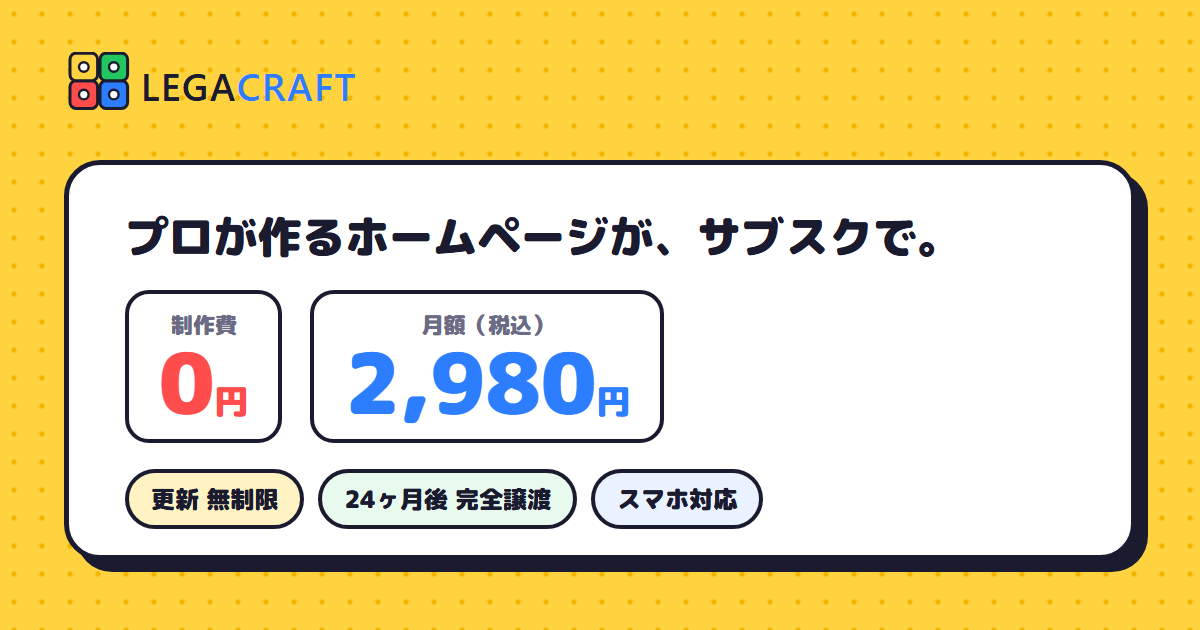
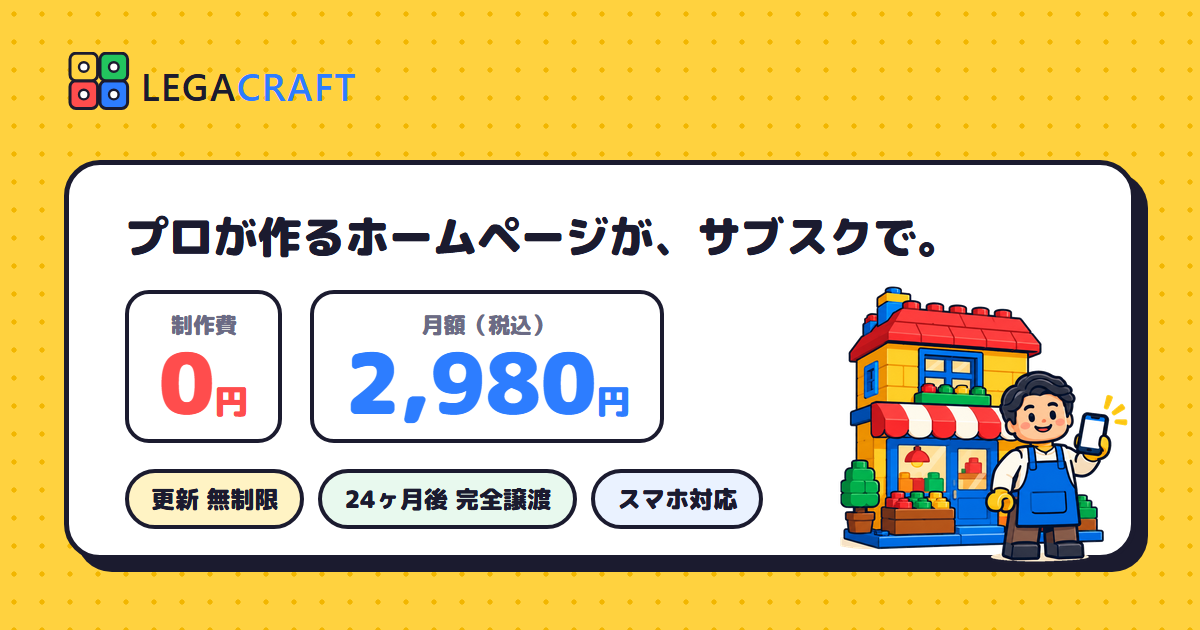
feat(site): add flow, spec, price and industry art; illustrate subpages and OGP
Top: all 5 flow steps, 4 spec icons, price heading art, 18 of 20 industry
chips, remaining problem/merit icons, faint block pattern on cream sections.
Subpages: contact, 404, aichi (hero + area), column index hero (template).
OGP gains the shop-owner figure without covering the copy.
Also includes today's scheduled column (2026-10-02) from the rebuild.

Claude-Session: https://claude.ai/code/session_01MnvsazHzAD1t6VmRBwdhFZ

Changed region(s): [[0.6783, 0.4524, 0.9558, 0.9048]]

diff --git a/column/kojin-jigyonushi-homepage-hitsuyou/index.html b/column/kojin-jigyonushi-homepage-hitsuyou/index.html
@@ -1,0 +1,107 @@
+<!DOCTYPE html>
+<html lang="ja">
+<head>
+<meta charset="utf-8">
+<meta name="viewport" content="width=device-width,initial-scale=1">
+<title>個人事業主にホームページは必要？｜いらない人・持つべき人の分かれ目 | LEGACRAFT コラム</title>
+<meta name="description" content="個人事業主にホームページは全員に必要ではありません。でも「検索される業種」「信用が必要な取引」「採用」のどれかに当てはまるなら持つべきです。いらない理由と持つべき条件、SNSとの役割の違いを整理します。">
+<link rel="canonical" href="https://legacraft.jp/column/kojin-jigyonushi-homepage-hitsuyou/">
+<meta name="theme-color" content="#FFD23F">
+<link rel="icon" href="/images/favicon.svg" type="image/svg+xml">
+<link rel="apple-touch-icon" href="/images/apple-touch-icon.png">
+<meta property="og:type" content="article"><meta property="og:locale" content="ja_JP"><meta property="og:site_name" content="LEGACRAFT">
+<meta property="og:url" content="https://legacraft.jp/column/kojin-jigyonushi-homepage-hitsuyou/"><meta property="og:title" content="個人事業主にホームページは必要？｜いらない人・持つべき人の分かれ目 | LEGACRAFT コラム"><meta property="og:description" content="個人事業主にホームページは全員に必要ではありません。でも「検索される業種」「信用が必要な取引」「採用」のどれかに当てはまるなら持つべきです。いらない理由と持つべき条件、SNSとの役割の違いを整理します。"><meta property="og:image" content="https://legacraft.jp/images/column/kojin-jigyonushi-homepage-hitsuyou.jpg">
+<meta name="twitter:card" content="summary_large_image">
+<link rel="alternate" type="application/rss+xml" title="LEGACRAFT コラム" href="https://legacraft.jp/column/feed.xml">
+<link rel="preconnect" href="https://fonts.googleapis.com"><link rel="preconnect" href="https://fonts.gstatic.com" crossorigin>
+<link rel="stylesheet" href="https://fonts.googleapis.com/css2?family=M+PLUS+Rounded+1c:wght@700;800;900&family=Zen+Maru+Gothic:wght@700;900&display=swap">
+<script src="/js/site-config.js"></script>
+<link rel="stylesheet" href="/assets/v5-pop.css">
+<link rel="stylesheet" href="/assets/column.css">
+<script type="application/ld+json">{"@context":"https://schema.org","@graph":[{"@type":"Article","headline":"個人事業主にホームページは必要？｜いらない人・持つべき人の分かれ目","description":"個人事業主にホームページは全員に必要ではありません。でも「検索される業種」「信用が必要な取引」「採用」のどれかに当てはまるなら持つべきです。いらない理由と持つべき条件、SNSとの役割の違いを整理します。","image":["https://legacraft.jp/images/column/kojin-jigyonushi-homepage-hitsuyou.jpg"],"datePublished":"2026-10-02","dateModified":"2026-10-02","mainEntityOfPage":"https://legacraft.jp/column/kojin-jigyonushi-homepage-hitsuyou/","author":{"@type":"Organization","name":"LEGACRAFT","url":"https://legacraft.jp"},"publisher":{"@type":"Organization","name":"LEGACRAFT","logo":{"@type":"ImageObject","url":"https://legacraft.jp/images/brand/logo-pop.svg"}},"keywords":"ホームページ 個人事業主, ホームページ 必要性, 個人事業主 ホームページ いらない, ホームページ SNS 違い","inLanguage":"ja"},{"@type":"BreadcrumbList","itemListElement":[{"@type":"ListItem","position":1,"name":"ホーム","item":"https://legacraft.jp/"},{"@type":"ListItem","position":2,"name":"コラム","item":"https://legacraft.jp/column/"},{"@type":"ListItem","position":3,"name":"個人事業主にホームページは必要？｜いらない人・持つべき人の分かれ目","item":"https://legacraft.jp/column/kojin-jigyonushi-homepage-hitsuyou/"}]}]}</script>
+</head>
+<body class="col-page">
+<header class="hd">
+  <div class="wrap hd-in">
+    <a class="brand" href="/" aria-label="LEGACRAFT トップへ"><img src="/images/brand/logo-pop.svg" alt="LEGACRAFT" width="560" height="120"></a>
+    <nav class="nav" aria-label="メイン">
+      <a href="/#points">特徴</a><a href="/#price">料金</a><a href="/#works">制作例</a><a href="/column/">コラム</a><a href="/#faq">よくある質問</a>
+    </nav>
+    <a class="btn line" href="https://lin.ee/XQBjU3A" target="_blank" rel="noopener"><svg class="ico" viewBox="0 0 24 24" aria-hidden="true"><path fill="currentColor" d="M12 2C6.5 2 2 5.7 2 10.2c0 4 3.6 7.4 8.4 8.1.3.1.8.2.9.5.1.3.1.7 0 1l-.1.9c0 .3-.2 1 .9.6s6-3.6 8.2-6.1c1.5-1.6 2.2-3.3 2.2-5C22.5 5.7 18 2 12 2z"/></svg>LINEで相談</a>
+  </div>
+</header>
+<main class="col-main">
+  <div class="wrap narrow">
+    <nav class="crumb" aria-label="パンくず"><a href="/">ホーム</a><span>›</span><a href="/column/">コラム</a><span>›</span><span>はじめての方へ</span></nav>
+    <article class="post">
+      <header class="post-head">
+        <span class="chip y">はじめての方へ</span>
+        <h1>個人事業主にホームページは必要？｜いらない人・持つべき人の分かれ目</h1>
+        <p class="pmeta"><time datetime="2026-10-02">2026年10月2日</time>・読了目安 約4分</p>
+        <figure class="hero-img"><img src="/images/column/kojin-jigyonushi-homepage-hitsuyou.jpg" alt="スマホで自分の屋号を検索する個人事業主" width="1600" height="900" fetchpriority="high" decoding="async"></figure>
+      </header>
+      <nav class="toc" aria-label="目次"><p class="toc-h">この記事の内容</p><ol><li><a href="#個人事業主にホームページはいらない-と言われる3つの理由">「個人事業主にホームページはいらない」と言われる3つの理由</a></li><li><a href="#それでも持つべき人の3つの条件">それでも持つべき人の3つの条件</a></li><li><a href="#SNSとホームページは-役割-がちがう">SNSとホームページは「役割」がちがう</a></li><li><a href="#まだ持たなくていい人-も正直に書きます">「まだ持たなくていい人」も正直に書きます</a></li><li><a href="#迷ったら-自分の名前で検索-してみる">迷ったら「自分の名前で検索」してみる</a></li><li><a href="#まとめ">まとめ</a></li></ol></nav>
+      <div class="post-body">
+<p>結論から言います。個人事業主にホームページは「全員に必要」ではありません。でも、「検索される業種」「信用が必要な取引」「人を雇いたい」のどれかに当てはまるなら、持ったほうが得です。この記事では、「いらない」と言われる理由と、それでも持つべき人の条件を整理します。SNSとの役割の違いも、ここでスッキリさせましょう。</p>
+<h2 id="個人事業主にホームページはいらない-と言われる3つの理由">「個人事業主にホームページはいらない」と言われる3つの理由</h2>
+<p>まず、いらない派の言い分をちゃんと聞きましょう。どれも一理あります。</p>
+<h3 id="理由1-SNSで十分だから">理由1：SNSで十分だから</h3>
+<p>InstagramやX（旧Twitter）で発信すれば、お客さんとつながれる。無料で、スマホだけで、今日から始められる。たしかにその通りです。</p>
+<h3 id="理由2-紹介だけで回っているから">理由2：紹介だけで回っているから</h3>
+<p>「お客さんは全員紹介。新規募集もしていない」。こういう人にとって、ホームページは急ぎではありません。</p>
+<h3 id="理由3-お金がかかるから">理由3：お金がかかるから</h3>
+<p>数十万円かけて作って、見られなければ損。そう考えるのも自然です。費用の幅については<a href="/column/homepage-seisaku-hiyou-souba/">制作費用の相場記事</a>にまとめています。</p>
+<blockquote><p>ポイント：「いらない」はウソではない。ただし「あなたに当てはまるか」は別の話です。</p></blockquote>
+<h2 id="それでも持つべき人の3つの条件">それでも持つべき人の3つの条件</h2>
+<h3 id="条件1-お客さんが-検索して-探す業種">条件1：お客さんが「検索して」探す業種</h3>
+<p>整体院、リフォーム、士業、教室、修理業。こういう業種は、お客さんが「地域名＋業種」で検索します。検索結果に出てこない＝存在しないのと同じ、になりがちです。</p>
+<p>SNSは「知っている人」に届く道具です。「まだ知らない人」が探すときに出てくるのは、ホームページです。地域×業種の検索記事もあわせてどうぞ。</p>
+<h3 id="条件2-信用が必要な取引をしている">条件2：信用が必要な取引をしている</h3>
+<p>法人との取引、高額な商品、長い付き合いになるサービス。相手は契約前に、必ず名前で検索します。そのとき何も出てこないと、「この人、大丈夫かな」と思われてしまいます。</p>
+<p>ホームページは、24時間働く名刺であり、履歴書です。会社案内、サービス内容、連絡先がそろっているだけで、安心感がまったく違います。</p>
+<h3 id="条件3-人を雇いたい">条件3：人を雇いたい</h3>
+<p>求人を出すと、応募する人はまず会社名で検索します。ホームページがないと、応募をためらう人がいます。採用のためのホームページについてはこちらの記事で書いています。</p>
+<h2 id="SNSとホームページは-役割-がちがう">SNSとホームページは「役割」がちがう</h2>
+<p>どちらが良い・悪いではなく、役割がちがいます。表にするとこうなります。</p>
+<div class="tbl"><table><thead><tr><th></th><th>SNS</th><th>ホームページ</th></tr></thead><tbody><tr><td>届く相手</td><td>フォロワー（知っている人）</td><td>検索した人（まだ知らない人）</td></tr><tr><td>情報の形</td><td>流れていく</td><td>ずっと残る</td></tr><tr><td>伝わるもの</td><td>人柄・日々の様子</td><td>事業の全体像・信用</td></tr><tr><td>持ち主</td><td>サービス側のもの</td><td>自分のもの（独自ドメインなら）</td></tr></tbody></table></div>
+<p>いちばん良いのは、両方を使い分けることです。SNSで日々の様子を見せて、くわしく知りたい人をホームページに案内する。この流れが、小さな事業にはいちばん向いています。</p>
+<p>うちの場合は、制作費0円・月額2,980円（税込）で、5ページ程度のホームページを作っています。SNSリンクも標準で入れるので、「SNSもやっているけど、ちゃんとした受け皿もほしい」という人によく選ばれます。<a href="/#works">制作例</a>も見てみてください。</p>
+<aside class="cta-box"><p class="cta-k">LINEで無料相談</p><h3>ホームページのこと、LINEで気軽に聞いてください</h3><p>LEGACRAFTは制作費0円・月額2,980円（税込）のサブスク型。更新は回数無制限、24ヶ月後はサイトを譲渡します。質問だけでも大歓迎です。</p><a class="btn line" href="https://lin.ee/XQBjU3A" target="_blank" rel="noopener" data-cta="column-mid"><svg class="ico" viewBox="0 0 24 24" aria-hidden="true"><path fill="currentColor" d="M12 2C6.5 2 2 5.7 2 10.2c0 4 3.6 7.4 8.4 8.1.3.1.8.2.9.5.1.3.1.7 0 1l-.1.9c0 .3-.2 1 .9.6s6-3.6 8.2-6.1c1.5-1.6 2.2-3.3 2.2-5C22.5 5.7 18 2 12 2z"/></svg>LINEで無料相談する</a><p class="cta-sub"><a href="/#price">料金の詳細を見る</a>　<a href="/#works">制作例を見る</a></p></aside>
+<h2 id="まだ持たなくていい人-も正直に書きます">「まだ持たなくていい人」も正直に書きます</h2>
+<ul><li>お客さんが全員紹介で、今後も新規をとるつもりがない</li><li>趣味に近い活動で、収入を増やす予定がない</li><li>1年以内にやめる可能性が高い</li></ul>
+<p>こういう場合は、無理に作らなくて大丈夫です。無料ツールで1ページだけ置いておく、という手もあります。無料ツールの落とし穴記事も参考にしてください。</p>
+<h2 id="迷ったら-自分の名前で検索-してみる">迷ったら「自分の名前で検索」してみる</h2>
+<p>今すぐできる判断方法があります。スマホで、自分の屋号や名前を検索してみてください。</p>
+<p>何も出てこない、または古い情報しか出てこないなら、お客さんも同じものを見ています。そこに「ちゃんとした顔」を置くかどうか。それがホームページを持つかどうかの答えです。</p>
+<p>もし「置きたい」と思ったら、まずは何が必要かを知るところから。ホームページ作成に必要なものの記事が役に立つはずです。</p>
+<h2 id="まとめ">まとめ</h2>
+<ul><li>個人事業主にホームページは「全員に必要」ではない</li><li>「検索される業種」「信用が必要」「人を雇う」なら持つべき</li><li>SNSは知っている人に、ホームページはまだ知らない人に届く</li><li>両方を使い分けるのがいちばん強い</li><li>迷ったら自分の名前で検索してみる</li></ul>
+<p>「自分の場合はどうだろう」と思ったら、LINEで気軽に相談してください。作らないほうがいい場合は、そう言います。</p>
+<aside class="cta-box"><p class="cta-k">LINEで無料相談</p><h3>読んで「うちも必要かも」と思ったら</h3><p>まずは友だち追加して「ホームページの相談」とひとこと送ってください。しつこい営業はしません。</p><a class="btn line" href="https://lin.ee/XQBjU3A" target="_blank" rel="noopener" data-cta="column-end"><svg class="ico" viewBox="0 0 24 24" aria-hidden="true"><path fill="currentColor" d="M12 2C6.5 2 2 5.7 2 10.2c0 4 3.6 7.4 8.4 8.1.3.1.8.2.9.5.1.3.1.7 0 1l-.1.9c0 .3-.2 1 .9.6s6-3.6 8.2-6.1c1.5-1.6 2.2-3.3 2.2-5C22.5 5.7 18 2 12 2z"/></svg>LINEで無料相談する</a><p class="cta-sub"><a href="/#price">料金の詳細を見る</a>　<a href="/#works">制作例を見る</a></p></aside>
+      </div>
+      <aside class="author"><img src="/images/brand/mark-pop.svg" alt="" width="64" height="64"><div><p class="a-name">LEGACRAFT（レガクラフト）</p><p>愛知県を拠点にしたWeb制作。制作費0円・月額2,980円（税込）のサブスク型で、小さな会社のホームページを作って育てています。</p></div></aside>
+      <nav class="prevnext" aria-label="前後の記事">
+        <span></span>
+        <a class="pn next" href="/column/homepage-seisaku-hiyou-souba/"><span>前の記事</span>ホームページ制作の費用相場｜0円〜100万円の差と見積もりの見方</a>
+      </nav>
+    </article>
+  </div>
+  <section class="related"><div class="wrap"><h2 class="h2">あわせて読みたい</h2><div class="pgrid"><a class="pcard" href="/column/homepage-seisaku-hiyou-souba/" data-cat="料金・費用">
+  <figure><img src="/images/column/homepage-seisaku-hiyou-souba.jpg" alt="" width="1600" height="900" loading="lazy" decoding="async"></figure>
+  <div class="pcard-b"><span class="chip r">料金・費用</span><h3>ホームページ制作の費用相場｜0円〜100万円の差と見積もりの見方</h3><p>ホームページ制作の費用は0円から100万円超まで幅があります。差がつく理由は「誰が作るか」「何が含まれているか」。費用を決める5つの要素と、見積もりで必ず見るべき3つのポイントをやさしく解説します。</p><p class="pmeta"><time datetime="2026-10-01">2026年10月1日</time>・約5分</p></div></a></div><p class="center"><a class="btn y" href="/column/">コラム一覧へ</a></p></div></section>
+</main>
+<footer class="ft">
+  <div class="wrap ft-in">
+    <div>
+      <img src="/images/brand/logo-pop.svg" alt="LEGACRAFT" width="560" height="120">
+      <p class="ft-tag">制作費0円・月額2,980円のサブスク型ホームページ制作</p>
+      <dl><dt>屋号</dt><dd>LEGACRAFT（レガクラフト）</dd><dt>拠点</dt><dd>愛知県（全国オンライン対応）</dd><dt>メール</dt><dd><a href="mailto:info@legacraft.jp">info@legacraft.jp</a></dd></dl>
+    </div>
+    <div><h4>MENU</h4><ul><li><a href="/#points">特徴</a></li><li><a href="/#price">料金</a></li><li><a href="/#works">制作例</a></li><li><a href="/#flow">ご利用の流れ</a></li><li><a href="/#faq">よくあるご質問</a></li><li><a href="/column/">コラム</a></li><li><a href="/privacy.html">プライバシーポリシー</a></li><li><a href="/terms/">利用規約</a></li><li><a href="/tokushoho/">特定商取引法に基づく表記</a></li></ul></div>
+    <p class="ft-note">掲載している制作例・デモはすべて架空の企業を想定した自主制作です。実在する企業・団体とは関係ありません。<br>© LEGACRAFT</p>
+  </div>
+</footer>
+<div class="float-line"><a class="btn line" href="https://lin.ee/XQBjU3A" target="_blank" rel="noopener"><svg class="ico" viewBox="0 0 24 24" aria-hidden="true"><path fill="currentColor" d="M12 2C6.5 2 2 5.7 2 10.2c0 4 3.6 7.4 8.4 8.1.3.1.8.2.9.5.1.3.1.7 0 1l-.1.9c0 .3-.2 1 .9.6s6-3.6 8.2-6.1c1.5-1.6 2.2-3.3 2.2-5C22.5 5.7 18 2 12 2z"/></svg>LINEで無料相談</a></div>
+<div class="sp-bar"><a class="btn line" href="https://lin.ee/XQBjU3A" target="_blank" rel="noopener"><svg class="ico" viewBox="0 0 24 24" aria-hidden="true"><path fill="currentColor" d="M12 2C6.5 2 2 5.7 2 10.2c0 4 3.6 7.4 8.4 8.1.3.1.8.2.9.5.1.3.1.7 0 1l-.1.9c0 .3-.2 1 .9.6s6-3.6 8.2-6.1c1.5-1.6 2.2-3.3 2.2-5C22.5 5.7 18 2 12 2z"/></svg>LINEで無料相談（制作費0円）</a></div>
+</body>
+</html>

diff --git a/index.html b/index.html
@@ -144,7 +144,7 @@
     </div>
     <ul class="woes rv">
       <li class="woe">ホームページを作りたいけど、見積もりが<b>数十万円</b>でビックリした<img class="woe-ill" src="images/site/woe-1-mitsumori.webp" alt="" width="256" height="256" loading="lazy" decoding="async"></li>
-      <li class="woe">月額制のサービスを見ても、<b>結局いくらかかるのか</b>よく分からない</li>
+      <li class="woe">月額制のサービスを見ても、<b>結局いくらかかるのか</b>よく分からない<img class="woe-ill" src="images/site/woe-2-hatena.webp" alt="" width="256" height="186" loading="lazy" decoding="async"></li>
       <li class="woe">自分で作ろうとしたけど、<b>途中で止まった</b>まま<img class="woe-ill" src="images/site/woe-3-tochu.webp" alt="" width="256" height="163" loading="lazy" decoding="async"></li>
       <li class="woe">昔作ったサイトが古くて、<b>スマホで見ると崩れている</b><img class="woe-ill" src="images/site/woe-4-kuzure.webp" alt="" width="171" height="256" loading="lazy" decoding="async"></li>
       <li class="woe">作ったあと、<b>直してくれる人がいない</b>のが不安<img class="woe-ill" src="images/site/woe-5-fuan.webp" alt="" width="256" height="216" loading="lazy" decoding="async"></li>
@@ -198,7 +198,7 @@
     <div class="merits rv">
       <article class="merit"><div class="ic" aria-hidden="true"><img class="ic-img" src="images/site/merit-1-shinyo.webp" alt="" width="256" height="242" loading="lazy" decoding="async"></div><h3>信用度がアップする</h3><p>名刺交換のあと、取引前、融資の審査前。相手はまず会社名で検索します。ホームページがあるだけで「ちゃんとした会社」として見てもらえます。</p></article>
       <article class="merit"><div class="ic" aria-hidden="true"><img class="ic-img" src="images/site/merit-2-mitsukaru.webp" alt="" width="256" height="217" loading="lazy" decoding="async"></div><h3>新しいお客様に見つけてもらえる</h3><p>24時間休まず働く営業マンです。「地域名＋業種」で探している人に、あなたの会社を知ってもらうきっかけになります。</p></article>
-      <article class="merit"><div class="ic" aria-hidden="true">🤝</div><h3>求人・採用に使える</h3><p>応募前にホームページを見る人がほとんど。会社の雰囲気や仕事内容が分かるページがあると、応募のハードルが下がります。</p></article>
+      <article class="merit"><div class="ic" aria-hidden="true"><img class="ic-img" src="images/site/merit-3-saiyo.webp" alt="" width="220" height="256" loading="lazy" decoding="async"></div><h3>求人・採用に使える</h3><p>応募前にホームページを見る人がほとんど。会社の雰囲気や仕事内容が分かるページがあると、応募のハードルが下がります。</p></article>
     </div>
   </div>
 </section>
@@ -207,6 +207,7 @@
 <section class="sec cream" id="price">
   <div class="wrap narrow">
     <div class="sec-head rv">
+      <img class="sec-ill" src="images/site/price-plan.webp" alt="" width="428" height="480" loading="lazy" decoding="async">
       <p class="kicker r">PRICE</p>
       <h2 class="h2">料金は<span class="mk">これだけ</span>。</h2>
       <p class="lead">プランは1つ。オプション地獄も、あとから増える請求もありません。</p>
@@ -343,10 +344,10 @@
       <p class="lead">「うちの業種でもできる？」はだいたい大丈夫。迷ったらLINEで聞いてください。</p>
     </div>
     <ul class="chips rv">
-      <li><img class="chip-ic" src="images/site/ind-01-kenchiku.webp" alt="" width="160" height="137" loading="lazy" decoding="async">建築・リフォーム</li><li>電気・水道工事</li><li>塗装・外構</li><li>美容室・サロン</li><li>整体・治療院</li>
-      <li>クリニック・歯科</li><li>介護・福祉</li><li>飲食店・カフェ</li><li>ハウスクリーニング</li><li>不用品回収</li>
+      <li><img class="chip-ic" src="images/site/ind-01-kenchiku.webp" alt="" width="160" height="137" loading="lazy" decoding="async">建築・リフォーム</li><li><img class="chip-ic" src="images/site/ind-02-denki-suido.webp" alt="" width="160" height="156" loading="lazy" decoding="async">電気・水道工事</li><li><img class="chip-ic" src="images/site/ind-03-tosou.webp" alt="" width="160" height="158" loading="lazy" decoding="async">塗装・外構</li><li><img class="chip-ic" src="images/site/ind-04-biyo.webp" alt="" width="160" height="152" loading="lazy" decoding="async">美容室・サロン</li><li><img class="chip-ic" src="images/site/ind-05-seitai.webp" alt="" width="160" height="125" loading="lazy" decoding="async">整体・治療院</li>
+      <li><img class="chip-ic" src="images/site/ind-06-clinic.webp" alt="" width="160" height="159" loading="lazy" decoding="async">クリニック・歯科</li><li><img class="chip-ic" src="images/site/ind-07-kaigo.webp" alt="" width="160" height="143" loading="lazy" decoding="async">介護・福祉</li><li><img class="chip-ic" src="images/site/ind-08-inshoku.webp" alt="" width="160" height="151" loading="lazy" decoding="async">飲食店・カフェ</li><li><img class="chip-ic" src="images/site/ind-09-cleaning.webp" alt="" width="160" height="154" loading="lazy" decoding="async">ハウスクリーニング</li><li>不用品回収</li>
       <li><img class="chip-ic" src="images/site/ind-11-shigyo.webp" alt="" width="160" height="150" loading="lazy" decoding="async">士業・コンサル</li><li><img class="chip-ic" src="images/site/ind-12-juku.webp" alt="" width="160" height="123" loading="lazy" decoding="async">学習塾・教室</li><li><img class="chip-ic" src="images/site/ind-13-seizo.webp" alt="" width="160" height="154" loading="lazy" decoding="async">製造業</li><li><img class="chip-ic" src="images/site/ind-14-butsuryu.webp" alt="" width="160" height="121" loading="lazy" decoding="async">物流・運送</li><li><img class="chip-ic" src="images/site/ind-15-fudosan.webp" alt="" width="160" height="143" loading="lazy" decoding="async">不動産</li>
-      <li><img class="chip-ic" src="images/site/ind-16-kouri.webp" alt="" width="160" height="138" loading="lazy" decoding="async">小売店</li><li><img class="chip-ic" src="images/site/ind-17-freelance.webp" alt="" width="160" height="119" loading="lazy" decoding="async">個人事業主・フリーランス</li><li><img class="chip-ic" src="images/site/ind-18-npo.webp" alt="" width="160" height="153" loading="lazy" decoding="async">NPO・団体</li><li>採用ページ</li><li>その他なんでも</li>
+      <li><img class="chip-ic" src="images/site/ind-16-kouri.webp" alt="" width="160" height="138" loading="lazy" decoding="async">小売店</li><li><img class="chip-ic" src="images/site/ind-17-freelance.webp" alt="" width="160" height="119" loading="lazy" decoding="async">個人事業主・フリーランス</li><li><img class="chip-ic" src="images/site/ind-18-npo.webp" alt="" width="160" height="153" loading="lazy" decoding="async">NPO・団体</li><li><img class="chip-ic" src="images/site/ind-19-saiyo.webp" alt="" width="160" height="129" loading="lazy" decoding="async">採用ページ</li><li>その他なんでも</li>
     </ul>
   </div>
 </section>
@@ -360,11 +361,11 @@
       <p class="lead">やることは「LINEで答える」だけ。むずかしい作業はぜんぶこちらでやります。</p>
     </div>
     <div class="steps rv">
-      <div class="st"><span class="free-tag">無料</span><span class="sn">1</span><h3>LINEで友だち追加</h3><p>ボタンを押して友だち追加。「ホームページの相談」とひとこと送ってください。</p></div>
-      <div class="st"><span class="free-tag">無料</span><span class="sn">2</span><h3>LINEでヒアリング</h3><p>業種・やりたいこと・参考サイトなどを、チャットで気軽に教えてください。</p></div>
-      <div class="st"><span class="sn">3</span><h3>お申し込み・制作</h3><p>内容と料金に納得いただいたら制作開始。写真や文章はLINEで送るだけ。</p></div>
-      <div class="st"><span class="sn">4</span><h3>確認・調整</h3><p>できあがりを見ていただき、気になるところを直します。</p></div>
-      <div class="st"><span class="sn">5</span><h3>公開・ずっとサポート</h3><p>公開後も更新は無制限。24ヶ月後はサイトをまるごと譲渡します。</p></div>
+      <div class="st"><span class="free-tag">無料</span><span class="sn">1</span><img class="st-ill" src="images/site/flow-1-tomodachi.webp" alt="" width="360" height="349" loading="lazy" decoding="async"><h3>LINEで友だち追加</h3><p>ボタンを押して友だち追加。「ホームページの相談」とひとこと送ってください。</p></div>
+      <div class="st"><span class="free-tag">無料</span><span class="sn">2</span><img class="st-ill" src="images/site/flow-2-hearing.webp" alt="" width="360" height="325" loading="lazy" decoding="async"><h3>LINEでヒアリング</h3><p>業種・やりたいこと・参考サイトなどを、チャットで気軽に教えてください。</p></div>
+      <div class="st"><span class="sn">3</span><img class="st-ill" src="images/site/flow-3-seisaku.webp" alt="" width="360" height="335" loading="lazy" decoding="async"><h3>お申し込み・制作</h3><p>内容と料金に納得いただいたら制作開始。写真や文章はLINEで送るだけ。</p></div>
+      <div class="st"><span class="sn">4</span><img class="st-ill" src="images/site/flow-4-kakunin.webp" alt="" width="360" height="354" loading="lazy" decoding="async"><h3>確認・調整</h3><p>できあがりを見ていただき、気になるところを直します。</p></div>
+      <div class="st"><span class="sn">5</span><img class="st-ill" src="images/site/flow-5-kokai.webp" alt="" width="357" height="360" loading="lazy" decoding="async"><h3>公開・ずっとサポート</h3><p>公開後も更新は無制限。24ヶ月後はサイトをまるごと譲渡します。</p></div>
     </div>
     <div class="cta-block rv">
       <a class="btn line lg" href="contact.html" data-line><svg class="ico" viewBox="0 0 24 24" aria-hidden="true"><path fill="currentColor" d="M12 2C6.5 2 2 5.7 2 10.2c0 4 3.6 7.4 8.4 8.1.3.1.8.2.9.5.1.3.1.7 0 1l-.1.9c0 .3-.2 1 .9.6s6-3.6 8.2-6.1c1.5-1.6 2.2-3.3 2.2-5C22.5 5.7 18 2 12 2z"/></svg>まずはSTEP1、LINEで友だち追加</a>
@@ -380,10 +381,10 @@
       <h2 class="h2">中身も<span class="mk">ちゃんとしてます</span></h2>
     </div>
     <div class="specs rv">
-      <article class="sp"><div class="ic" aria-hidden="true">🧱</div><h3>WordPressで構築</h3><p>国内のホームページで広く使われている仕組み。ご自身でも更新でき、将来の引き継ぎもスムーズです。</p></article>
-      <article class="sp"><div class="ic" aria-hidden="true">📱</div><h3>スマホ・タブレット対応</h3><p>PC・スマホ・タブレット、どの画面でもきれいに表示されるレスポンシブデザインです。</p></article>
-      <article class="sp"><div class="ic" aria-hidden="true">🔒</div><h3>独自ドメイン・常時SSL</h3><p>あなたの会社名のURL（例：example.co.jp）で公開。https対応で安心です。</p></article>
-      <article class="sp"><div class="ic" aria-hidden="true">💬</div><h3>LINEで更新・サポート</h3><p>更新依頼も相談もLINEでOK。回数の制限はありません。</p></article>
+      <article class="sp"><div class="ic" aria-hidden="true"><img class="ic-img" src="images/site/spec-1-wordpress.webp" alt="" width="244" height="256" loading="lazy" decoding="async"></div><h3>WordPressで構築</h3><p>国内のホームページで広く使われている仕組み。ご自身でも更新でき、将来の引き継ぎもスムーズです。</p></article>
+      <article class="sp"><div class="ic" aria-hidden="true"><img class="ic-img" src="images/site/spec-2-responsive.webp" alt="" width="256" height="125" loading="lazy" decoding="async"></div><h3>スマホ・タブレット対応</h3><p>PC・スマホ・タブレット、どの画面でもきれいに表示されるレスポンシブデザインです。</p></article>
+      <article class="sp"><div class="ic" aria-hidden="true"><img class="ic-img" src="images/site/spec-3-ssl.webp" alt="" width="224" height="256" loading="lazy" decoding="async"></div><h3>独自ドメイン・常時SSL</h3><p>あなたの会社名のURL（例：example.co.jp）で公開。https対応で安心です。</p></article>
+      <article class="sp"><div class="ic" aria-hidden="true"><img class="ic-img" src="images/site/spec-4-line.webp" alt="" width="256" height="231" loading="lazy" decoding="async"></div><h3>LINEで更新・サポート</h3><p>更新依頼も相談もLINEでOK。回数の制限はありません。</p></article>
     </div>
   </div>
 </section>

diff --git a/column/index.html b/column/index.html
@@ -35,10 +35,14 @@
     <p class="kicker y">COLUMN</p>
     <h1 class="h2">ホームページの「わからない」を、<span class="mk">ぜんぶ解決するコラム</span></h1>
     <p class="lead">費用のこと、作り方のこと、作ったあとのこと。小さな会社・個人事業主の方に向けて、むずかしい言葉を使わずに書いています。</p>
+    <figure style="margin:22px auto 0;max-width:640px"><img src="/images/site/column-top.webp" alt="本からブロックが飛び出す本棚の前で、楽しそうに本を読む二人のイラスト" width="1200" height="675" decoding="async" style="width:100%;height:auto;display:block;border:3px solid #1B1B2F;border-radius:18px"></figure>
   </div></section>
   <div class="wrap">
-    <div class="cats" role="tablist" aria-label="カテゴリ"><button class="chip on" data-filter="all">すべて（1）</button><button class="chip r" data-filter="料金・費用">料金・費用（1）</button></div>
-    <div class="pgrid" id="plist"><a class="pcard" href="/column/homepage-seisaku-hiyou-souba/" data-cat="料金・費用">
+    <div class="cats" role="tablist" aria-label="カテゴリ"><button class="chip on" data-filter="all">すべて（2）</button><button class="chip y" data-filter="はじめての方へ">はじめての方へ（1）</button><button class="chip r" data-filter="料金・費用">料金・費用（1）</button></div>
+    <div class="pgrid" id="plist"><a class="pcard" href="/column/kojin-jigyonushi-homepage-hitsuyou/" data-cat="はじめての方へ">
+  <figure><img src="/images/column/kojin-jigyonushi-homepage-hitsuyou.jpg" alt="" width="1600" height="900" loading="lazy" decoding="async"></figure>
+  <div class="pcard-b"><span class="chip y">はじめての方へ</span><h3>個人事業主にホームページは必要？｜いらない人・持つべき人の分かれ目</h3><p>個人事業主にホームページは全員に必要ではありません。でも「検索される業種」「信用が必要な取引」「採用」のどれかに当てはまるなら持つべきです。いらない理由と持つべき条件、SNSとの役割の違いを整理します。</p><p class="pmeta"><time datetime="2026-10-02">2026年10月2日</time>・約4分</p></div></a>
+<a class="pcard" href="/column/homepage-seisaku-hiyou-souba/" data-cat="料金・費用">
   <figure><img src="/images/column/homepage-seisaku-hiyou-souba.jpg" alt="" width="1600" height="900" loading="lazy" decoding="async"></figure>
   <div class="pcard-b"><span class="chip r">料金・費用</span><h3>ホームページ制作の費用相場｜0円〜100万円の差と見積もりの見方</h3><p>ホームページ制作の費用は0円から100万円超まで幅があります。差がつく理由は「誰が作るか」「何が含まれているか」。費用を決める5つの要素と、見積もりで必ず見るべき3つのポイントをやさしく解説します。</p><p class="pmeta"><time datetime="2026-10-01">2026年10月1日</time>・約5分</p></div></a></div>
     <p class="empty" id="pempty" hidden>このカテゴリの記事は準備中です。</p>

diff --git a/aichi/index.html b/aichi/index.html
@@ -127,6 +127,7 @@
       <div class="eyebrow">AICHI</div>
       <h1>愛知県のホームページ制作</h1>
       <p>愛知県西三河を拠点に、WordPress＋SWELLとLPの制作を承っています。料金と「対応しないこと」を先に開示するので、見積もりを取る前に予算が合うかどうか判断できます。県内であれば、対面での打ち合わせにも対応します。</p>
+      <figure style="margin:1.5rem 0;max-width:900px"><img src="../images/site/aichi-machi.webp" alt="名古屋のテレビ塔と三河の田園や工場が並ぶ、ブロックでできた愛知の町のイラスト" width="1400" height="788" loading="lazy" decoding="async" style="width:100%;height:auto;display:block"></figure>
       <div class="hero-actions-inline">
         <a href="../contact.html" class="btn btn-primary" data-cta-id="aichi_hero_contact" data-cta-label="相談する">まずは相談する（無料） <span class="btn-arrow">→</span></a>
         <a href="../#price" class="btn btn-ghost" data-cta-id="aichi_hero_price" data-cta-label="料金を見る">料金を見る <span class="btn-arrow">→</span></a>
@@ -295,6 +296,7 @@
         <h2>対応エリア</h2>
         <p>拠点は愛知県西三河です。下記の市町であれば対面での打ち合わせに対応できます。それ以外の地域も、オンラインでのお打ち合わせで全国からご依頼いただけます。</p>
       </div>
+      <figure style="margin:0 0 1.5rem;max-width:640px"><img src="../images/site/aichi-taimen.webp" alt="カフェでノートパソコンを見ながら打ち合わせをする制作者とお店の人のイラスト" width="1200" height="675" loading="lazy" decoding="async" style="width:100%;height:auto;display:block;border-radius:16px"></figure>
       <ul class="area-list reveal">
         <li class="is-home">岡崎市</li>
         <li class="is-home">安城市</li>

diff --git a/column/homepage-seisaku-hiyou-souba/index.html b/column/homepage-seisaku-hiyou-souba/index.html
@@ -81,12 +81,14 @@
       </div>
       <aside class="author"><img src="/images/brand/mark-pop.svg" alt="" width="64" height="64"><div><p class="a-name">LEGACRAFT（レガクラフト）</p><p>愛知県を拠点にしたWeb制作。制作費0円・月額2,980円（税込）のサブスク型で、小さな会社のホームページを作って育てています。</p></div></aside>
       <nav class="prevnext" aria-label="前後の記事">
-        <span></span>
+        <a class="pn" href="/column/kojin-jigyonushi-homepage-hitsuyou/"><span>新しい記事</span>個人事業主にホームページは必要？｜いらない人・持つべき人の分かれ目</a>
         <span></span>
       </nav>
     </article>
   </div>
-  
+  <section class="related"><div class="wrap"><h2 class="h2">あわせて読みたい</h2><div class="pgrid"><a class="pcard" href="/column/kojin-jigyonushi-homepage-hitsuyou/" data-cat="はじめての方へ">
+  <figure><img src="/images/column/kojin-jigyonushi-homepage-hitsuyou.jpg" alt="" width="1600" height="900" loading="lazy" decoding="async"></figure>
+  <div class="pcard-b"><span class="chip y">はじめての方へ</span><h3>個人事業主にホームページは必要？｜いらない人・持つべき人の分かれ目</h3><p>個人事業主にホームページは全員に必要ではありません。でも「検索される業種」「信用が必要な取引」「採用」のどれかに当てはまるなら持つべきです。いらない理由と持つべき条件、SNSとの役割の違いを整理します。</p><p class="pmeta"><time datetime="2026-10-02">2026年10月2日</time>・約4分</p></div></a></div><p class="center"><a class="btn y" href="/column/">コラム一覧へ</a></p></div></section>
 </main>
 <footer class="ft">
   <div class="wrap ft-in">

diff --git a/contact.html b/contact.html
@@ -79,6 +79,7 @@
 <main id="main">
   <section style="padding-bottom:0;">
     <div class="container section-head reveal">
+      <figure style="margin:0 auto 1rem;max-width:200px"><img src="images/site/contact.webp" alt="" width="420" height="404" loading="lazy" decoding="async" style="width:100%;height:auto;display:block"></figure>
       <div class="eyebrow">CONTACT</div>
       <h1>お問い合わせ</h1>
       <p>下のフォームからそのままご相談いただけます。ランサーズ・ココナラ経由でのご依頼も可能です。料金・納期のご相談だけでも構いませんので、お気軽にご連絡ください。</p>

diff --git a/404.html b/404.html
@@ -59,6 +59,7 @@
 <main id="main">
   <section>
     <div class="container section-head reveal" style="text-align:center;">
+      <figure style="margin:0 auto 1rem;max-width:200px"><img src="images/site/notfound.webp" alt="地図を逆さまに持って迷っているロボットのイラスト" width="325" height="420" loading="lazy" decoding="async" style="width:100%;height:auto;display:block"></figure>
       <div class="eyebrow">404</div>
       <h1>ページが見つかりませんでした</h1>
       <p>お探しのページは移動または削除された可能性があります。</p>

diff --git a/assets/v5-pop.css b/assets/v5-pop.css
@@ -391,3 +391,10 @@ b,strong{font-weight:800}
 .faq-ill{width:110px}
 
 .final-ill{display:block;width:min(300px,70%);height:auto;margin:0 auto 14px}
+
+.st-ill{display:block;width:min(130px,70%);height:auto;margin:0 auto 8px}
+@media (max-width:1000px){.st-ill{width:120px}}
+.sp .ic{width:72px;height:72px}
+.sp .ic-img{width:78%;height:78%;object-fit:contain}
+
+.sec.cream{background-image:url("../images/site/deco-blocks.webp");background-size:520px 520px}
